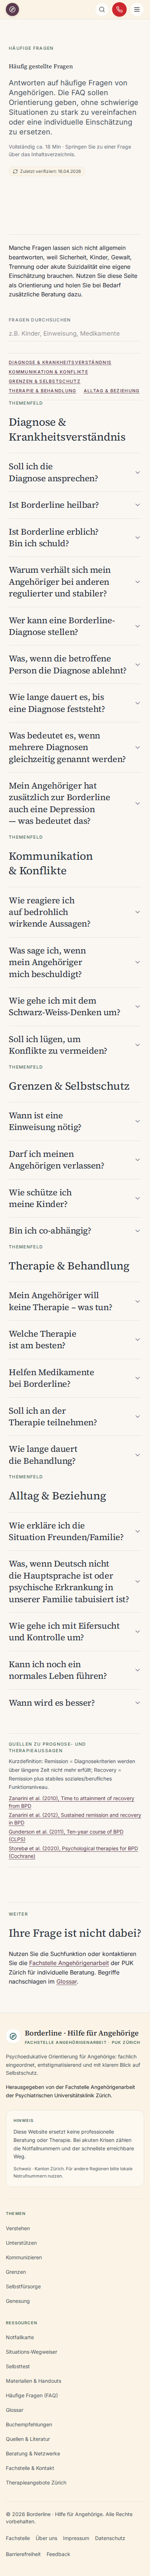
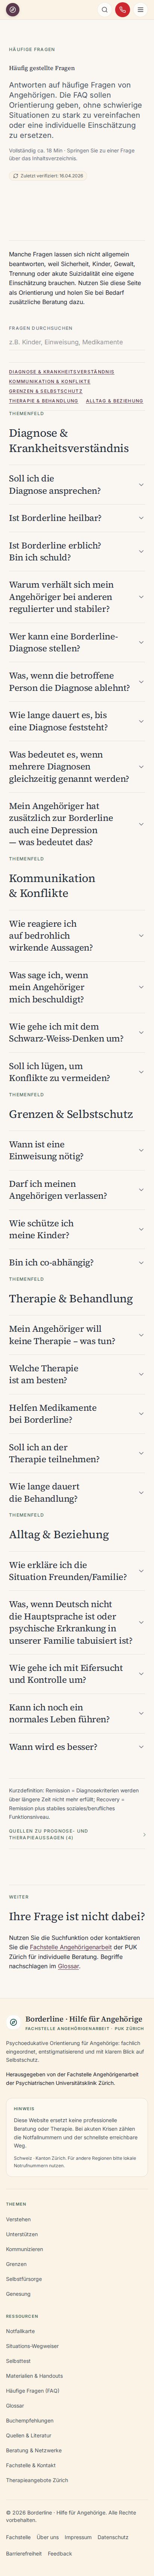
feat(evidence): Quellenliste in EvidenceNote aufklappbar für ruhigeren Lesefluss
Bisher rendert EvidenceNote die Quellen als immer sichtbaren Block, was den
Lesefluss unterbricht. Neu klappt die Quellenliste hinter einem dezenten
nativen <details>/<summary>-Toggle auf (gleiches barrierefreie Muster wie
die bestehende ReviewBadge).

Entscheidungen (nach Freigabe):
- Standard: eingeklappt («{Titel} ({n})» als Toggle, Chevron).
- Nur die Quellenliste + Prüfdatum klappen ein; die inhaltliche Einordnung
  (definition) bleibt sichtbar — die Evidenz-Aussage geht nicht verloren
  (betrifft 10/14 Notes).
- Gilt einheitlich für alle 14 EvidenceNote.

Technik:
- Inhalt bleibt im DOM (nur via CSS verborgen) → kein SEO-/Crawler-Verlust.
- Beim Drucken (beforeprint) wird die Liste erzwungen aufgeklappt und danach
  (afterprint) auf den vom Lesenden gewählten Zustand zurückgesetzt.
- Styling über bestehende Editorial-Tokens, Disclosure-Muster der ReviewBadge
  wiederverwendet; Titel-Eyebrow in den Summary-Toggle integriert (keine
  Dopplung).

Tests: evidence-note.test um Disclosure-Assertion ergänzt (362 grün).
FAQ-Visual-Baselines neu generiert (Seite ist durch die eingeklappte Liste
kürzer; einziger betroffener Snapshot). typecheck/lint/30 Visual-Tests grün.

https://claude.ai/code/session_01SYg92SwjHx2AUUE8uxky7N

diff --git a/client/src/components/EvidenceNote.tsx b/client/src/components/EvidenceNote.tsx
@@ -1,3 +1,4 @@
+import { useEffect, useRef } from "react";
 import type { EvidenceSource } from "@/domain/content-types";
 
 interface EvidenceNoteProps {
@@ -22,6 +23,30 @@ export default function EvidenceNote({
     source => source.type !== "versorgung"
   );
   const serviceSources = sources.filter(source => source.type === "versorgung");
+  const totalSources = sources.length;
+
+  // Beim Drucken die Quellenliste erzwungen aufklappen, damit Ausdrucke
+  // vollständig sind; danach den vorherigen (vom Lesenden gewählten) Zustand
+  // wiederherstellen.
+  const detailsRef = useRef<HTMLDetailsElement>(null);
+  useEffect(() => {
+    const el = detailsRef.current;
+    if (!el) return;
+    let previousOpen = el.open;
+    const handleBeforePrint = () => {
+      previousOpen = el.open;
+      el.open = true;
+    };
+    const handleAfterPrint = () => {
+      el.open = previousOpen;
+    };
+    window.addEventListener("beforeprint", handleBeforePrint);
+    window.addEventListener("afterprint", handleAfterPrint);
+    return () => {
+      window.removeEventListener("beforeprint", handleBeforePrint);
+      window.removeEventListener("afterprint", handleAfterPrint);
+    };
+  }, []);
 
   const renderSources = (items: EvidenceSource[]) => (
     <ul
@@ -54,20 +79,10 @@ export default function EvidenceNote({
       style={{ borderColor: "var(--rule-color)" }}
       aria-label={title}
     >
-      <p
-        className="uppercase"
-        style={{
-          fontSize: "var(--text-xs)",
-          letterSpacing: "var(--tracking-caps)",
-          color: "var(--accent-label)",
-          fontWeight: 500,
-        }}
-      >
-        {title}
-      </p>
+      {/* Die Einordnung (definition) bleibt sichtbar — sie ist die inhaltliche
+          Evidenz-Aussage. Nur die Quellenliste klappt ein (Lesefluss). */}
       {definition && (
         <p
-          className="mt-2"
           style={{
             fontSize: "var(--text-sm)",
             lineHeight: "var(--lh-relaxed)",
@@ -77,33 +92,57 @@ export default function EvidenceNote({
           {definition}
         </p>
       )}
-      {scientificSources.length > 0 && renderSources(scientificSources)}
-      {serviceSources.length > 0 && (
-        <>
+      {totalSources > 0 ? (
+        <details
+          ref={detailsRef}
+          className={`evidence-note__disclosure${definition ? " mt-3" : ""}`}
+        >
+          <summary className="evidence-note__summary">
+            {title} ({totalSources})
+          </summary>
+          <div className="evidence-note__body">
+            {scientificSources.length > 0 && renderSources(scientificSources)}
+            {serviceSources.length > 0 && (
+              <>
+                <p
+                  className="mt-3 uppercase"
+                  style={{
+                    fontSize: "var(--text-xs)",
+                    letterSpacing: "var(--tracking-caps)",
+                    color: "var(--accent-label)",
+                    fontWeight: 500,
+                  }}
+                >
+                  Versorgung / Hilfe
+                </p>
+                {renderSources(serviceSources)}
+              </>
+            )}
+            {reviewDate && (
+              <p
+                className="mt-3"
+                style={{
+                  fontSize: "var(--text-xs)",
+                  color: "var(--fg-tertiary)",
+                }}
+              >
+                Zuletzt redaktionell geprüft: {reviewDate}
+              </p>
+            )}
+          </div>
+        </details>
+      ) : (
+        reviewDate && (
           <p
-            className="mt-3 uppercase"
+            className="mt-3"
             style={{
               fontSize: "var(--text-xs)",
-              letterSpacing: "var(--tracking-caps)",
-              color: "var(--accent-label)",
-              fontWeight: 500,
+              color: "var(--fg-tertiary)",
             }}
           >
-            Versorgung / Hilfe
+            Zuletzt redaktionell geprüft: {reviewDate}
           </p>
-          {renderSources(serviceSources)}
-        </>
-      )}
-      {reviewDate && (
-        <p
-          className="mt-3"
-          style={{
-            fontSize: "var(--text-xs)",
-            color: "var(--fg-tertiary)",
-          }}
-        >
-          Zuletzt redaktionell geprüft: {reviewDate}
-        </p>
+        )
       )}
     </aside>
   );

diff --git a/client/src/index.css b/client/src/index.css
@@ -1070,6 +1070,64 @@
     font-weight: var(--weight-strong);
     color: var(--fg-primary);
   }
+
+  /* Quellen-Disclosure (EvidenceNote): ruhiger Lesefluss — die Quellenliste
+     klappt hinter einem dezenten Summary-Toggle auf. Mirror des review-badge-
+     Musters; native <details>/<summary>, voll tastatur-/screenreader-tauglich. */
+  .evidence-note__disclosure {
+    color: var(--fg-secondary);
+  }
+
+  .evidence-note__summary {
+    display: inline-flex;
+    align-items: center;
+    gap: var(--space-2);
+    cursor: pointer;
+    list-style: none;
+    font-size: var(--text-xs);
+    letter-spacing: var(--tracking-caps);
+    text-transform: uppercase;
+    font-weight: 500;
+    color: var(--accent-label);
+    transition: color 0.15s ease;
+  }
+
+  .evidence-note__summary::-webkit-details-marker {
+    display: none;
+  }
+
+  .evidence-note__summary::after {
+    content: "";
+    width: 0.45rem;
+    height: 0.45rem;
+    flex: 0 0 auto;
+    border-right: 1.5px solid currentColor;
+    border-bottom: 1.5px solid currentColor;
+    transform: rotate(-45deg);
+    transition: transform 0.15s ease;
+  }
+
+  .evidence-note__disclosure[open] .evidence-note__summary::after {
+    transform: rotate(45deg);
+  }
+
+  .evidence-note__summary:hover {
+    color: var(--accent-primary);
+  }
+
+  .evidence-note__summary:focus-visible {
+    outline: 2px solid var(--accent-primary);
+    outline-offset: 3px;
+    border-radius: 2px;
+  }
+
+  .evidence-note__body {
+    margin-top: var(--space-2);
+  }
+
+  .evidence-note__disclosure:not([open]) .evidence-note__body {
+    display: none;
+  }
 }
 
 /* Scrollbar ausblenden für horizontale Tab-Leisten */

diff --git a/client/src/__tests__/evidence-note.test.tsx b/client/src/__tests__/evidence-note.test.tsx
@@ -24,7 +24,7 @@ describe("EvidenceNote", () => {
       />
     );
 
-    expect(screen.getByText("Quellenhinweis")).toBeInTheDocument();
+    expect(screen.getByText(/Quellenhinweis \(2\)/)).toBeInTheDocument();
     expect(screen.getByText("APA Practice Guideline")).toBeInTheDocument();
     expect(screen.getByText("Versorgung / Hilfe")).toBeInTheDocument();
     expect(
@@ -32,5 +32,28 @@ describe("EvidenceNote", () => {
     ).toBeInTheDocument();
     expect(screen.getByText(/PUK Zürich/)).toBeInTheDocument();
     expect(screen.getByText(/Regionale Versorgung/)).toBeInTheDocument();
+  });
+
+  it("collapses the source list behind a details/summary toggle", () => {
+    const { container } = render(
+      <EvidenceNote
+        title="Quellen"
+        sources={[
+          {
+            label: "Studie A",
+            href: "https://example.com/a",
+            type: "wissenschaft",
+          },
+        ]}
+      />
+    );
+
+    const details = container.querySelector(
+      "details.evidence-note__disclosure"
+    );
+    expect(details).toBeInTheDocument();
+    // standardmässig eingeklappt (kein open-Attribut)
+    expect(details).not.toHaveAttribute("open");
+    expect(container.querySelector("summary")).toBeInTheDocument();
   });
 });